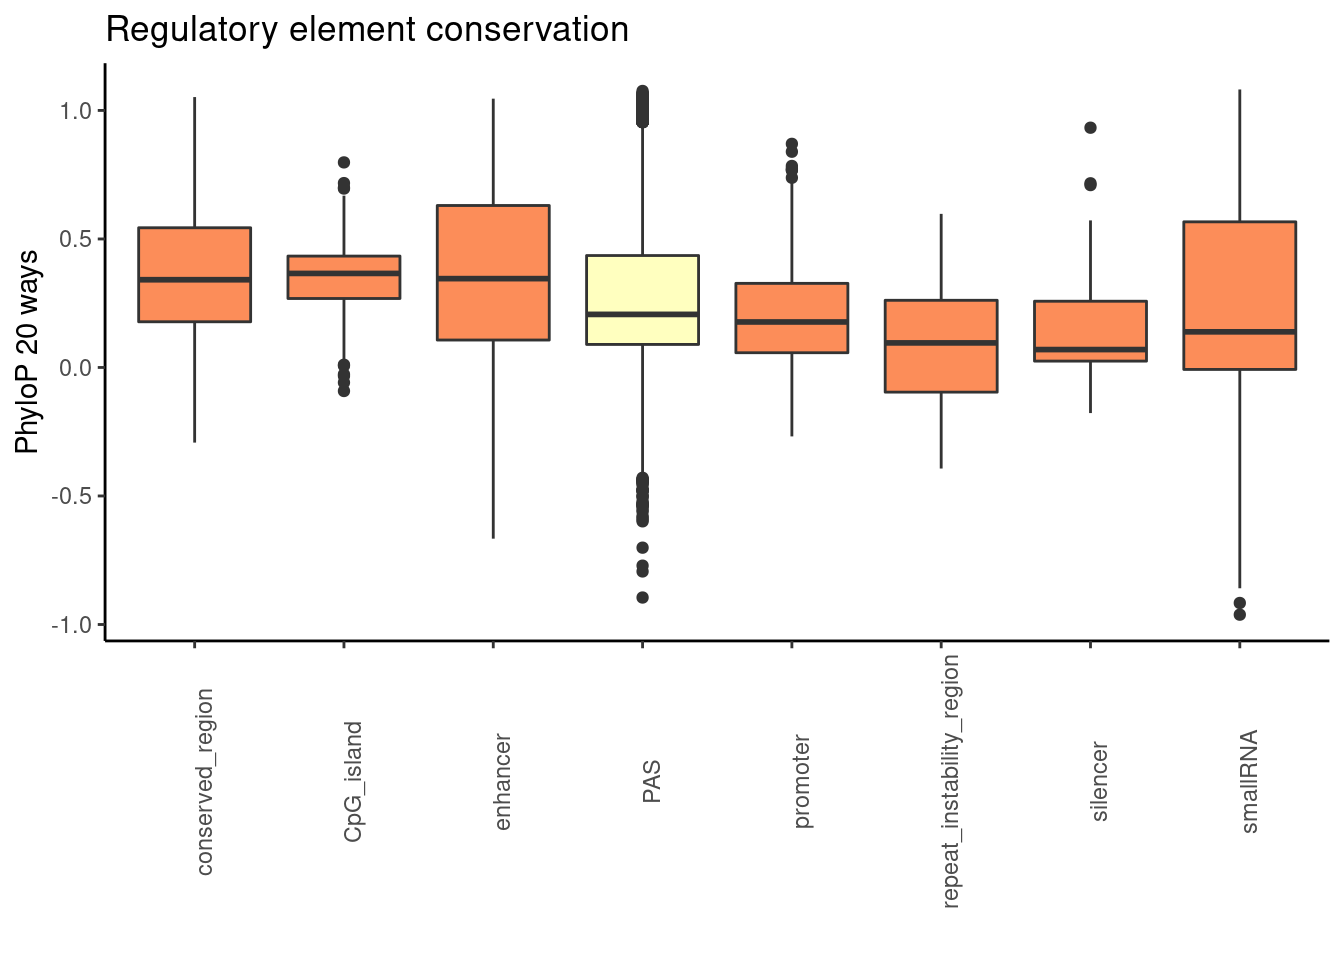
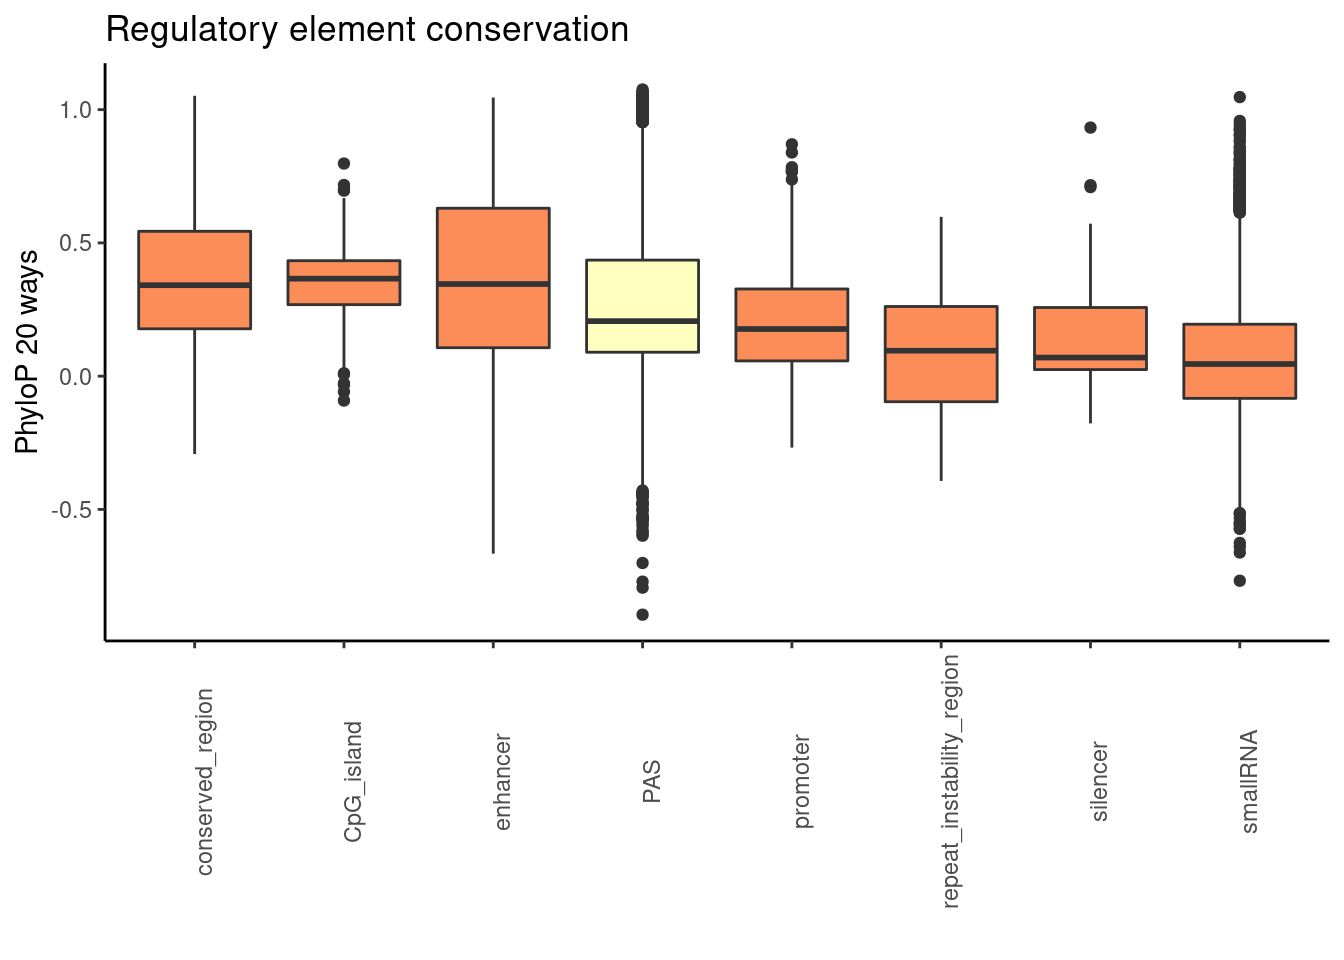
Build site.

diff --git a/docs/phylopRegElements.html b/docs/phylopRegElements.html
@@ -446,7 +446,7 @@ div.tocify {
 <div class="tab-content">
 <div id="summary" class="tab-pane fade in active">
 <p>
-<strong>Last updated:</strong> 2020-12-24
+<strong>Last updated:</strong> 2021-01-18
 </p>
 <p>
 <strong>Checks:</strong> <span class="glyphicon glyphicon-ok text-success" aria-hidden="true"></span> 7 <span class="glyphicon glyphicon-exclamation-sign text-danger" aria-hidden="true"></span> 0
@@ -537,16 +537,16 @@ This reproducible <a href="http://rmarkdown.rstudio.com">R Markdown</a> analysis
 <div class="panel panel-default">
 <div class="panel-heading">
 <p class="panel-title">
-<a data-toggle="collapse" data-parent="#workflowr-checks" href="#strongRepositoryversionstrongahrefhttpsgithubcombrimittlemanComparativeAPAtreea8cf9283e678e01934fd9d59ffb1eb68adb9d353targetblanka8cf928a"> <span class="glyphicon glyphicon-ok text-success" aria-hidden="true"></span> <strong>Repository version:</strong> <a href="https://github.com/brimittleman/Comparative_APA/tree/a8cf9283e678e01934fd9d59ffb1eb68adb9d353" target="_blank">a8cf928</a> </a>
+<a data-toggle="collapse" data-parent="#workflowr-checks" href="#strongRepositoryversionstrongahrefhttpsgithubcombrimittlemanComparativeAPAtreeb769a1769a125cd4d9b10be7b47415e54704be63targetblankb769a17a"> <span class="glyphicon glyphicon-ok text-success" aria-hidden="true"></span> <strong>Repository version:</strong> <a href="https://github.com/brimittleman/Comparative_APA/tree/b769a1769a125cd4d9b10be7b47415e54704be63" target="_blank">b769a17</a> </a>
 </p>
 </div>
[2 lines of base64/hex data omitted]
 <div class="panel-body">
 <p>
 Great! You are using Git for version control. Tracking code development and connecting the code version to the results is critical for reproducibility.
 </p>
 <p>
-The results in this page were generated with repository version <a href="https://github.com/brimittleman/Comparative_APA/tree/a8cf9283e678e01934fd9d59ffb1eb68adb9d353" target="_blank">a8cf928</a>. See the <em>Past versions</em> tab to see a history of the changes made to the R Markdown and HTML files.
+The results in this page were generated with repository version <a href="https://github.com/brimittleman/Comparative_APA/tree/b769a1769a125cd4d9b10be7b47415e54704be63" target="_blank">b769a17</a>. See the <em>Past versions</em> tab to see a history of the changes made to the R Markdown and HTML files.
 </p>
 <p>
 Note that you need to be careful to ensure that all relevant files for the analysis have been committed to Git prior to generating the results (you can use <code>wflow_publish</code> or <code>wflow_git_commit</code>). workflowr only checks the R Markdown file, but you know if there are other scripts or data files that it depends on. Below is the status of the Git repository when the results were generated:
@@ -588,6 +588,7 @@ Untracked files:
     Untracked:  analysis/dUsed_humanchimp.Rmd
     Untracked:  analysis/diffExpressionPantro6.Rmd
     Untracked:  analysis/isoformdivandexp.Rmd
+    Untracked:  analysis/nDom.Rmd
     Untracked:  code/._AlignmentScores.sh
     Untracked:  code/._BothFCMM.sh
     Untracked:  code/._BothFCMMPrim.sh
@@ -1559,6 +1560,40 @@ Message
 Rmd
 </td>
 <td>
+<a href="https://github.com/brimittleman/Comparative_APA/blob/b769a1769a125cd4d9b10be7b47415e54704be63/analysis/phylopRegElements.Rmd" target="_blank">b769a17</a>
+</td>
+<td>
+brimittleman
+</td>
+<td>
+2021-01-18
+</td>
+<td>
+add 200 up analysis
+</td>
+</tr>
+<tr>
+<td>
+html
+</td>
+<td>
+<a href="https://rawcdn.githack.com/brimittleman/Comparative_APA/f2e7ead7c986b29a29c677a322082dea27613587/docs/phylopRegElements.html" target="_blank">f2e7ead</a>
+</td>
+<td>
+brimittleman
+</td>
+<td>
+2020-12-24
+</td>
+<td>
+Build site.
+</td>
+</tr>
+<tr>
+<td>
+Rmd
+</td>
+<td>
 <a href="https://github.com/brimittleman/Comparative_APA/blob/a8cf9283e678e01934fd9d59ffb1eb68adb9d353/analysis/phylopRegElements.Rmd" target="_blank">a8cf928</a>
 </td>
 <td>
@@ -1649,7 +1684,8 @@ add phylop reg element analysis
 <pre class="r"><code>library(workflowr)</code></pre>
 <pre><code>This is workflowr version 1.6.2
 Run ?workflowr for help getting started</code></pre>
-<pre class="r"><code>library(cowplot)</code></pre>
+<pre class="r"><code>library()
+library(cowplot)</code></pre>
 <pre><code>
 ********************************************************</code></pre>
 <pre><code>Note: As of version 1.0.0, cowplot does not change the</code></pre>
@@ -1789,7 +1825,7 @@ brimittleman
 </table>
 </div>
 </div>
-<pre class="r"><code>both_together=plot_grid(phylop20plot,phylop100plot, nrow = 2, labels=c(&quot;a&quot;, &quot;b&quot;))
+<pre class="r"><code>both_together=plot_grid(phylop20plot,phylop100plot, nrow = 2, labels=c(&quot;A&quot;, &quot;B&quot;))
 both_together</code></pre>
 <p><img src="figure/phylopRegElements.Rmd/unnamed-chunk-9-1.png" width="672" style="display: block; margin: auto;" /></p>
 <p>
@@ -1814,6 +1850,17 @@ Date
 </tr>
 </thead>
 <tbody>
+<tr>
+<td>
+<a href="https://github.com/brimittleman/Comparative_APA/blob/f2e7ead7c986b29a29c677a322082dea27613587/docs/figure/phylopRegElements.Rmd/unnamed-chunk-9-1.png" target="_blank">f2e7ead</a>
+</td>
+<td>
+brimittleman
+</td>
+<td>
+2020-12-24
+</td>
+</tr>
 <tr>
 <td>
 <a href="https://github.com/brimittleman/Comparative_APA/blob/0f749916d831b4f36222699fbe4db80cd7937b50/docs/figure/phylopRegElements.Rmd/unnamed-chunk-9-1.png" target="_blank">0f74991</a>
@@ -1886,6 +1933,17 @@ Date
 <tbody>
 <tr>
 <td>
+<a href="https://github.com/brimittleman/Comparative_APA/blob/f2e7ead7c986b29a29c677a322082dea27613587/docs/figure/phylopRegElements.Rmd/unnamed-chunk-13-1.png" target="_blank">f2e7ead</a>
+</td>
+<td>
+brimittleman
+</td>
+<td>
+2020-12-24
+</td>
+</tr>
+<tr>
+<td>
 <a href="https://github.com/brimittleman/Comparative_APA/blob/d5febd57d018c01439de0c6b1c9093f8e9052793/docs/figure/phylopRegElements.Rmd/unnamed-chunk-13-1.png" target="_blank">d5febd5</a>
 </td>
 <td>
@@ -1904,7 +1962,45 @@ brimittleman
 RegandRNAintron_20=Reg_20_sm %&gt;% bind_rows(RNAs_20) %&gt;% bind_rows(PAS_20) %&gt;% bind_rows(Intron_20) %&gt;%  mutate(fillcol=ifelse(element==&quot;PAS&quot;, &quot;yes&quot;, &quot;no&quot;))
 
 ggplot(RegandRNAintron_20, aes(x=element, y=phyloP20,fill=fillcol)) + geom_boxplot() + theme_classic() + labs(title=&quot;Regulatory element conservation&quot;, y=&quot;PhyloP 20 ways&quot;, x=&quot;&quot;)+ theme(axis.text.x = element_text(angle = 90), legend.position =&quot;none&quot;)+ scale_fill_brewer(palette = &quot;RdYlBu&quot;)</code></pre>
-<p><img src="figure/phylopRegElements.Rmd/unnamed-chunk-14-1.png" width="672" style="display: block; margin: auto;" /> Significance:</p>
+<p><img src="figure/phylopRegElements.Rmd/unnamed-chunk-14-1.png" width="672" style="display: block; margin: auto;" /></p>
+<p>
+<button type="button" class="btn btn-default btn-xs btn-workflowr btn-workflowr-fig" data-toggle="collapse" data-target="#fig-unnamed-chunk-14-1">
+Past versions of unnamed-chunk-14-1.png
+</button>
+</p>
+<div id="fig-unnamed-chunk-14-1" class="collapse">
+<div class="table-responsive">
+<table class="table table-condensed table-hover">
+<thead>
+<tr>
+<th>
+Version
+</th>
+<th>
+Author
+</th>
+<th>
+Date
+</th>
+</tr>
+</thead>
+<tbody>
+<tr>
+<td>
+<a href="https://github.com/brimittleman/Comparative_APA/blob/f2e7ead7c986b29a29c677a322082dea27613587/docs/figure/phylopRegElements.Rmd/unnamed-chunk-14-1.png" target="_blank">f2e7ead</a>
+</td>
+<td>
+brimittleman
+</td>
+<td>
+2020-12-24
+</td>
+</tr>
+</tbody>
+</table>
+</div>
+</div>
+<p>Significance:</p>
 <pre class="r"><code>promoter20= RegandRNA_20 %&gt;% filter(element==&quot;promoter&quot;)
 enhan20= RegandRNA_20 %&gt;% filter(element==&quot;enhancer&quot;)
 consv20= RegandRNA_20 %&gt;% filter(element==&quot;conserved_region&quot;)
@@ -1961,7 +2057,7 @@ alternative hypothesis: true location shift is greater than 0</code></pre>
     Wilcoxon rank sum test with continuity correction
 
 data:  PAS_20$phyloP20 and smallRNA20$phyloP20
-W = 56585046, p-value &lt; 2.2e-16
+W = 250749904, p-value &lt; 2.2e-16
 alternative hypothesis: true location shift is greater than 0</code></pre>
 <pre class="r"><code>Allloc_100=read.table(&quot;../data/RegElements/phylop100_ncbi.txt&quot;, stringsAsFactors = F, header = F, col.names = c(&quot;chr&quot;, &quot;start&quot;,&quot;end&quot;, &quot;name&quot;, &quot;phyloP100&quot;)) %&gt;% separate(name, into=c(&quot;element&quot;, &quot;gene&quot;),sep=&quot;:&quot;) %&gt;% drop_na()
 
@@ -1972,6 +2068,43 @@ RegandRNAintron_100=Reg_100_sm %&gt;% bind_rows(RNAs_100) %&gt;% bind_rows(PAS_1
 
 ggplot(RegandRNAintron_100, aes(x=element, y=phyloP100,fill=fillcol)) + geom_boxplot() + theme_classic() + labs(title=&quot;Regulatory element conservation&quot;, y=&quot;PhyloP 100 ways&quot;, x=&quot;&quot;)+ theme(axis.text.x = element_text(angle = 90), legend.position =&quot;none&quot;)+ scale_fill_brewer(palette = &quot;RdYlBu&quot;)</code></pre>
 <p><img src="figure/phylopRegElements.Rmd/unnamed-chunk-16-1.png" width="672" style="display: block; margin: auto;" /></p>
+<p>
+<button type="button" class="btn btn-default btn-xs btn-workflowr btn-workflowr-fig" data-toggle="collapse" data-target="#fig-unnamed-chunk-16-1">
+Past versions of unnamed-chunk-16-1.png
+</button>
+</p>
+<div id="fig-unnamed-chunk-16-1" class="collapse">
+<div class="table-responsive">
+<table class="table table-condensed table-hover">
+<thead>
+<tr>
+<th>
+Version
+</th>
+<th>
+Author
+</th>
+<th>
+Date
+</th>
+</tr>
+</thead>
+<tbody>
+<tr>
+<td>
+<a href="https://github.com/brimittleman/Comparative_APA/blob/f2e7ead7c986b29a29c677a322082dea27613587/docs/figure/phylopRegElements.Rmd/unnamed-chunk-16-1.png" target="_blank">f2e7ead</a>
+</td>
+<td>
+brimittleman
+</td>
+<td>
+2020-12-24
+</td>
+</tr>
+</tbody>
+</table>
+</div>
+</div>
 <pre class="r"><code>promoter100= RegandRNA_100 %&gt;% filter(element==&quot;promoter&quot;)
 enhan100= RegandRNA_100 %&gt;% filter(element==&quot;enhancer&quot;)
 consv100= RegandRNA_100 %&gt;% filter(element==&quot;conserved_region&quot;)
@@ -2030,6 +2163,47 @@ alternative hypothesis: true location shift is greater than 0</code></pre>
 data:  PAS_100$phyloP100 and smallRNA100$phyloP100
 W = 54968724, p-value &lt; 2.2e-16
 alternative hypothesis: true location shift is greater than 0</code></pre>
+<p>Map the promoters to genes and subset to genes we have APA in.</p>
+<p>The regulatory elements is a really small set…</p>
+<pre class="r"><code>regelements=read.table(&quot;../data/RegElements/hg38_RefSeqElements.bed&quot;, stringsAsFactors = F, col.names = c(&quot;chr&quot;,&quot;start&quot;,&quot;end&quot;, &quot;type&quot;, &quot;score&quot;, &quot;strand&quot;,&quot;hardsoft&quot;, &quot;hardend&quot;,&quot;color&quot; ))
+
+promoters=regelements %&gt;% filter(type==&quot;promoter&quot;, chr !=&quot;chrX&quot;, chr!=&quot;chrY&quot;) %&gt;% select(-hardsoft, -hardend, -color) 
+nrow(promoters)</code></pre>
+<pre><code>[1] 230</code></pre>
+<pre class="r"><code>write.table(promoters, &quot;../data/RegElements/hg38_promoters.bed&quot;, col.names = F, row.names = F, quote = F,sep=&quot;\t&quot;)</code></pre>
+<p>Map these to genes:</p>
+<pre class="bash"><code>#bedtools map -a ../data/cleanPeaks_lifted/AllPAS_postLift.sort.bed -b  ../../genome_anotation_data/hg38_refseq_anno/hg38_ncbiRefseq_Formatted_Allannotation_noSNO.Resort.bed -c 4 -S -o distinct &gt; ../data/cleanPeaks_anno/AllPAS_postLift.sort_LocAnno.bed 
+
+sort -k1,1 -k2,2n ../data/RegElements/hg38_promoters.bed &gt; ../data/RegElements/hg38_promoters_sort.bed
+
+sort -k1,1 -k2,2n  ../../genome_anotation_data/hg38_refseq_anno/hg38_ncbiRefseq_GenesParsed.bed &gt; ../data/RegElements/hg38_ncbiRefseq_GenesParsed_sort.bed
+
+bedtools map -a ../data/RegElements/hg38_promoters_sort.bed -b ../data/RegElements/hg38_ncbiRefseq_GenesParsed_sort.bed -c 4 -s -o distinct &gt; ../data/RegElements/hg38_promoters_genes.bed</code></pre>
+<p>Promoters with genes:</p>
+<pre class="r"><code>promgene=read.table(&quot;../data/RegElements/hg38_promoters_genes.bed&quot;,col.names = c(&quot;chr&quot;, &quot;start&quot;, &quot;end&quot;, &quot;element&quot;, &quot;score&quot;, &quot;strand&quot;,&quot;gene&quot;),stringsAsFactors = F)</code></pre>
+<p>assign to genes and filter to genes in the PAS set</p>
+<pre class="r"><code>genesPAS=read.table(&quot;../data/PAS_doubleFilter/PAS_5perc_either_HumanCoord_BothUsage_meta_doubleFilter.txt&quot;,header=T,stringsAsFactors = F) %&gt;% select(gene) %&gt;% unique()
+
+Reg_20Promotergene= read.table(&quot;../data/RegElements/hg38_RefSeqElements.phyloP20.txt&quot;, col.names = c(&#39;chr&#39;, &#39;start&#39;, &#39;end&#39;, &#39;element&#39;, &#39;phyloP20&#39; ), header = F, stringsAsFactors = F) %&gt;% inner_join(promgene,by=c(&quot;chr&quot;, &quot;start&quot;, &quot;end&quot;, &quot;element&quot;)) %&gt;% filter(gene %in% genesPAS$gene)
+
+Reg_100Promotergene= read.table(&quot;../data/RegElements/hg38_RefSeqElements.phyloP100.txt&quot;, col.names = c(&#39;chr&#39;, &#39;start&#39;, &#39;end&#39;, &#39;element&#39;, &#39;phyloP20&#39; ), header = F, stringsAsFactors = F) %&gt;% inner_join(promgene,by=c(&quot;chr&quot;, &quot;start&quot;, &quot;end&quot;, &quot;element&quot;))%&gt;% filter(gene %in% genesPAS$gene)</code></pre>
+<p>Too few to use.</p>
+<p>Define promoter region at 250 upstream of the PAS.</p>
+<pre class="r"><code>AllgeneProm=read.table(&quot;../data/RegElements/hg38_ncbiRefseq_GenesParsed_sort.bed&quot;, col.names = c(&quot;chr&quot;, &quot;start&quot;, &quot;end&quot;, &quot;gene&quot;,&quot;score&quot;, &quot;strand&quot;)) %&gt;% filter(gene %in% genesPAS$gene) %&gt;% mutate(PromStart=ifelse(strand==&quot;+&quot;, start-200, end), PromEnd=ifelse(strand==&quot;+&quot;, start, end+200)) %&gt;% select(chr, PromStart, PromEnd, gene, score, strand)
+
+PromAPAgenes=write.table(AllgeneProm, &quot;../data/RegElements/PromGenes.bed&quot;,col.names = F, row.names = F, quote = F, sep=&quot;\t&quot;)</code></pre>
+<pre class="bash"><code>python extractPhylopGeneral_20way.py  ../data/RegElements/PromGenes.bed ../data/RegElements/hg38_PromGenes.P20.txt 
+
+
+
+python extractPhylopGeneral.py  ../data/RegElements/PromGenes.bed ../data/RegElements/hg38_PromGenes.P100.txt</code></pre>
+<pre class="r"><code>Prom_wPAS_20=read.table(&quot;../data/RegElements/hg38_PromGenes.P20.txt&quot;, col.names = c(&quot;chr&quot;,&quot;start&quot;,&quot;end&quot;,&quot;PAS&quot;, &quot;phyloP20&quot;), stringsAsFactors = F) %&gt;% drop_na() %&gt;% mutate(element=&quot;Promoter&quot;) %&gt;% select(element,phyloP20) %&gt;% bind_rows(PAS_20)
+
+Prom_wPAS_100=read.table(&quot;../data/PhyloP/PAS_phyloP.txt&quot;, col.names = c(&quot;chr&quot;,&quot;start&quot;,&quot;end&quot;, &quot;phyloP100&quot;), stringsAsFactors = F) %&gt;% drop_na()  %&gt;%  mutate(element=&quot;Promoter&quot;) %&gt;% select(element,phyloP100) %&gt;% bind_rows(PAS_100)</code></pre>
+<pre class="r"><code>ggplot(Prom_wPAS_100,aes(x=element,y=phyloP100)) + geom_boxplot() + labs(title=&quot;PAS vs. promoters for 100 way Phylop&quot;)</code></pre>
+<p><img src="figure/phylopRegElements.Rmd/unnamed-chunk-25-1.png" width="672" style="display: block; margin: auto;" /></p>
+<pre class="r"><code>ggplot(Prom_wPAS_20,aes(x=element,y=phyloP20)) + geom_boxplot() + labs(title=&quot;PAS vs. promoters for 20 way Phylop&quot;)</code></pre>
+<p><img src="figure/phylopRegElements.Rmd/unnamed-chunk-25-2.png" width="672" style="display: block; margin: auto;" /></p>
 <br>
 <p>
 <button type="button" class="btn btn-default btn-workflowr btn-workflowr-sessioninfo" data-toggle="collapse" data-target="#workflowr-sessioninfo" style="display: block;">
